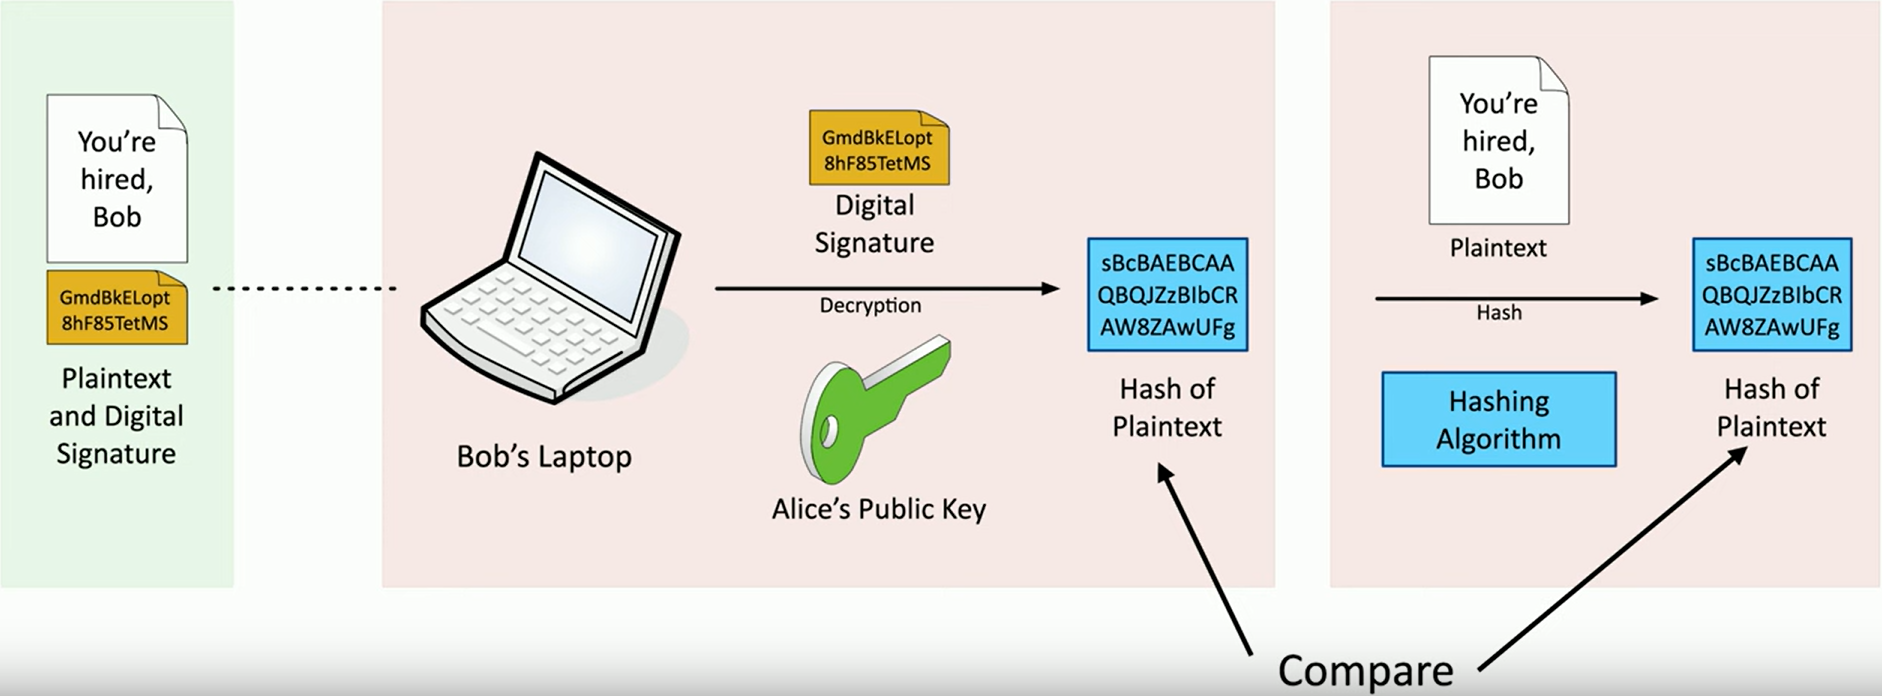
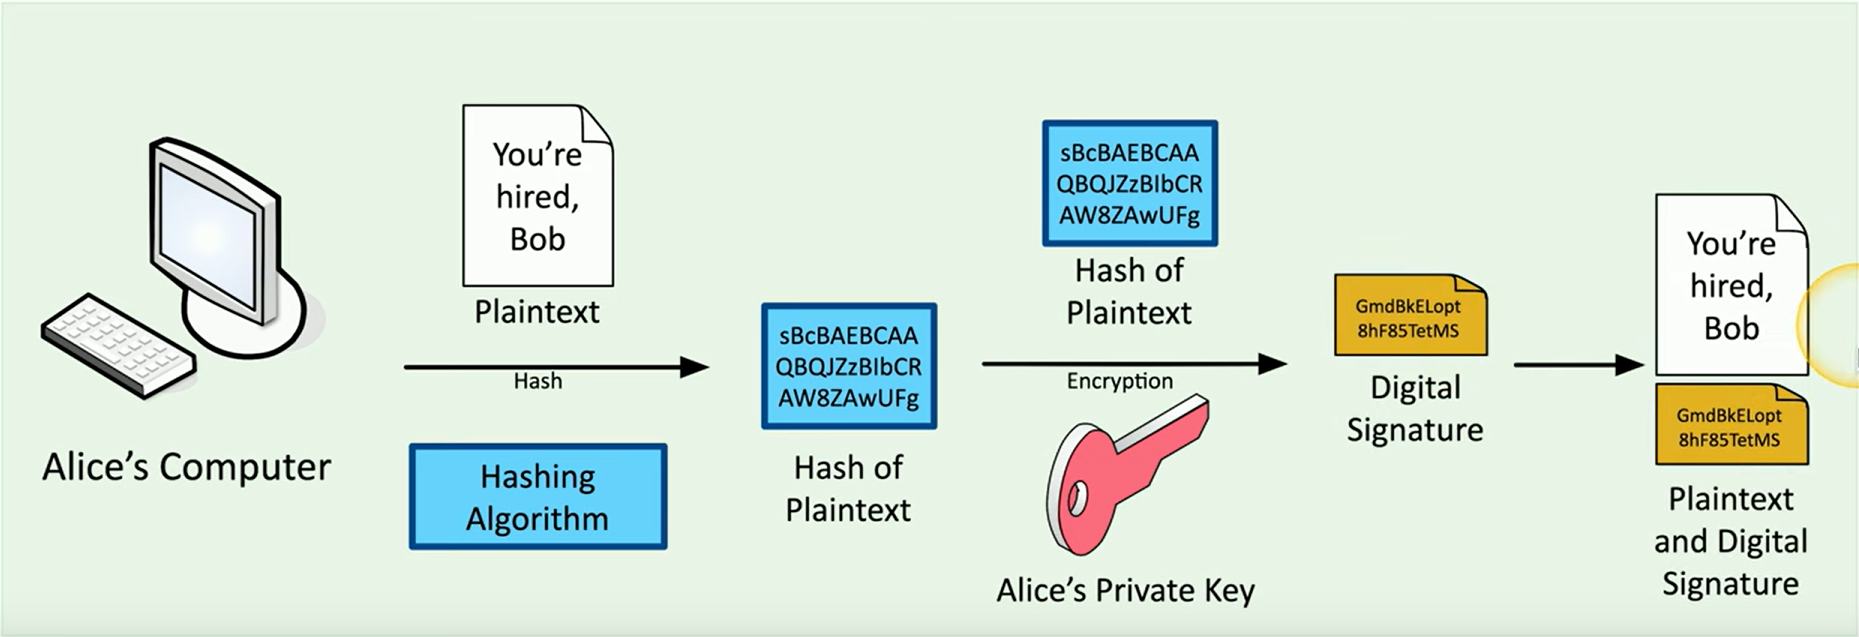
Finished 1.2 and made a plan

diff --git a/1.0 General Security Concepts/1.2 Fundamental Security Concepts.md b/1.0 General Security Concepts/1.2 Fundamental Security Concepts.md
@@ -29,6 +29,106 @@ Full objective: "Summarize fundamental security concepts."
 		- Verified with "public key"
 - Creating a digital signature
 	- ![[dig-sig-1.png]]
+	- ![[dig-sig-2.png]]
 
+### Authentication, Authorization, and Accounting
+- AAA framework
+	- Identification: who you claim to be
+	- **Authentication**: prove you are who you claim to be
+	- **Authorization**: what access do you have when authorized
+	- **Accounting**: what resources did you use when authorized
+- Authenticating people ![[authenticating-example.png]]
+- Authenticating systems
+	- Many managed devices, how to authenticate without a user?
+	- Device certificate, VPN or software validates authorized system
+- Certificate authentication
+	- Organization has a trusted **Certificate Authority (CA)** that signs all device certificated
+- Authorization models
+	- Certain users and services have access to certain data and applications
+	- Put the auth model in the middle
+	- Without a model, you would need to profile dozens of users individually
+	- With a model, you add abstractions (groups) to reduce complexity
+
+### Gap Analysis
+- Where you are compared with where you want to be, requires extensive research
+- Choosing the framework
+	- Work towards a known baseline and determine the end goal
+	- Following a framework like NIST SP 800-171 Revision 2 or ISO/IEC 27001
+- Evaluate people and processes
+	- Get a baseline of employees: experience, training, knowledge
+	- Examine the current processes: systems and policies
+- Analysis: compare and contrast
+	- Compare, identify weaknesses, then detailed analysis
+- The analysis and report
+	- Report includes final comparison of objectives and current state as well as path to goal
+	- ![[gap-report-example.png]]
+
+### Zero Trust
+- Many networks are open on the inside, zero trust says everything must be verified and secured at every step (security in depth)
+- Planes of operation
+	- Split the network into "functional planes"
+	- Data plane: frames, packets, network data
+	- Control plane: manage actions of data plane (policies, rules, etc.)
+- Controlling trust
+	- Adaptive identity
+		- Consider source and requested resources, multiple risk indicators, make auth stronger
+	- Threat scope reduction: reduce number of entry points
+	- Policy-driven access control: combine adaptive identity with rules
+- Security zones
+	- Broad categorization of where a user is connecting from and where you are going
+	- Trusted vs. untrusted, internal vs. external, departments, etc.
+	- Zones may be enough to deny access or provide implicit trust
+- Policy enforcement point
+	- Subjects and systems must pass through a "gatekeeper" to access resources
+	- Allow, monitor, and terminate connections -- hands over to the policy decision point
+- Policy decision point: responsible for examining authentication and deciding authenticity
+		- Policy engine: evaluates each decision based on policy -- grant, deny, or revoke
+		- Policy administrator: generates access tokens or credentials -- hands back to PEP
+- Full zero trust model: ![[zero-trust-model.png]]
+
+### Physical Security
+- Barricades / bollards
+	- Prevent access
+	- Channel people through an access point
+	- Identify safety concerns
+- Access control vestibules: isolated rooms for access point authentication
+	- All doors either normally unlocked or locked depending on level of security
+	- When one door is open, other cannot be unlocked -- allows for one-at-a-time or controlled groups to access an area
+- Fencing
+	- Building a very obvious perimeter
+	- May be transparent or opaque
+	- Must be robust to prevent bending or cutting
+	- Add razor wire or height to prevent climbing for more secure areas (some fences may be solely deterrents)
+- Video surveillance
+	- CCTV (closed circuit television): can replace physical guards
+	- Newer features include motion detection and object recognition
+- Guards and access badges
+	- Security guard: physical protection at reception area
+		- Two-person integrity/control: minimize exposure to attack, no single person has access to a physical asset
+	- Access badge: identifying details, worn at all times, electronically logged
+- Lighting
+	- More light means more security: attackers avoid light and exposed areas
+	- Lighting and angles may be important for facial recognition
+- Sensors
+	- Infrared: detects radiation in light and dark, common in motion detectors
+	- Pressure: detects change in force, floor and window sensors
+	- Microwave: detects movement across large areas
+	- Ultrasonic: sends signals and receives reflected sound waves to detect motion or collision
+
+### Deception and Disruption
+- Honeypots
+	- Attract threat actors and trap them
+	- Probably a machine, create a virtual world (can be done with open source software)
+	- Constant battle to discern real from fake (honeypot effectiveness)
+- Honeynets
+	- A collection of honeypots on a large deception network
+	- https://projecthoneypot.org
+- Honeyfiles
+	- More honey, more believable -- increases chance of deception (passwords.txt, etc.)
+	- Alert sent if file accessed (virtual bear trap)
+- Honeytokens
+	- Track malicious actors by adding traceable data to honeynet
+	- API credentials that don't actually provide access
+	- Fake email addresses whose inbox is monitored
 
 Next: [[1.3 Change Management Processes]]

diff --git a/The Plan.md b/The Plan.md
@@ -1,0 +1,23 @@
+I want to take CompTIA Security+ SY0-701 before the end of summer 2024 (before the start of the fall school semester). Better yet, it would be ideal if I have it done by the end of July. With that in mind, here is my tentative study plan for the next 7 weeks:
+
+**Learning**: 5 weeks
+**Further studying and reviewing**: 1 week
+**Taking the test**: 1 week window
+
+### Schedule:
+- Week 1 (June 10 - June 14)
+	- Complete learning domain 1.0
+	- Learn domain 2.0 objectives 2.1-2.3
+- Week 2 (June 17 - June 21)
+	- Complete learning domain 2.0 (2.4-2.5)
+	- Complete learning domain 3.0
+- Week 3 (June 24 - June 28)
+	- Learn domain 4.0 objectives 4.1-4.4
+- Week 4 (July 1 - July 5)
+	- Complete learning domain 4.0 (4.5-4.9)
+- Week 5 (July 8 - July 12)
+	- Complete learning domain 5.0
+- Week 6 (July 15 - July 19)
+	- Review materials and take Messer's practice tests
+- Week 7 (July 22 - July 26)
+	- Test time!

diff --git a/How to Pass Your SY0-701 Security+ Exam.md b/How to Pass Your SY0-701 Security+ Exam.md
@@ -7,8 +7,7 @@
 ### CompTIA Security+ certification - SY0701
 - 90 minutes, maximum of 90 questions
 - Passing score: 750 on a scale of 100-900
-- Domains:
-	- ![[domains.png]]
+- Domains: ![[domains.png]]
 - Exam questions
 	- Multiple choice, single answer (majority)
 	- Performance-based (PBQs), complete a task e.g. matching, sorting
